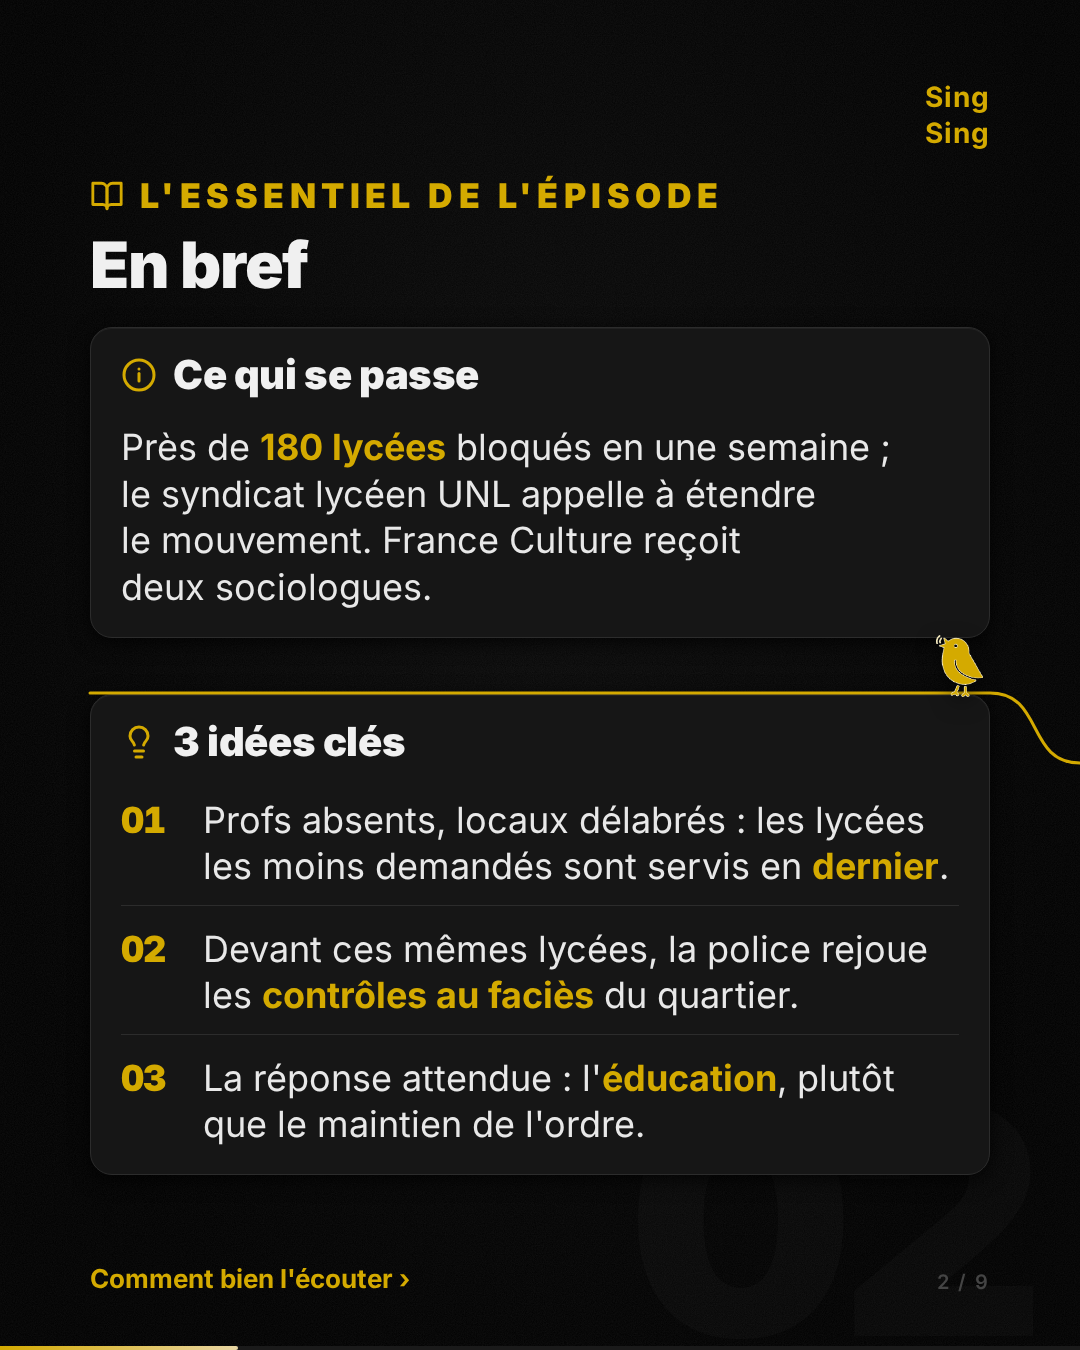
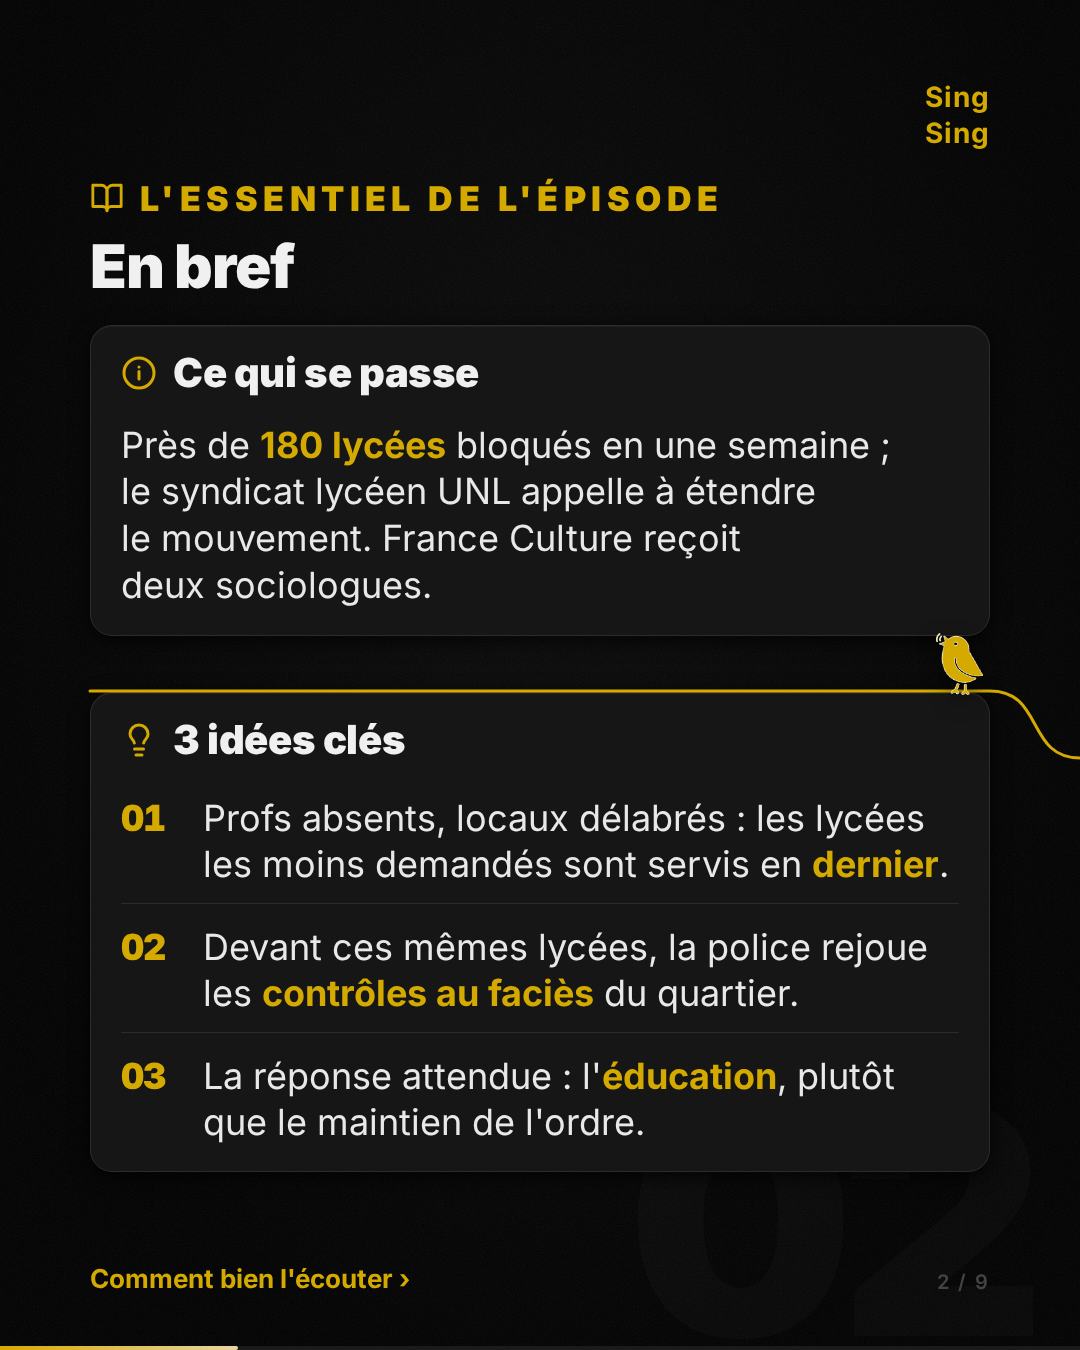
chore(samples): podcast_1 with uniform slide titles

diff --git a/samples/podcasts/podcast_1/instagram_carousel_optimized/html/02_essentiel.html b/samples/podcasts/podcast_1/instagram_carousel_optimized/html/02_essentiel.html
@@ -406,7 +406,7 @@ body {
    items, 0.32em label→body — resolved against this template's body size.
    03_reperes keeps the tighter values: it has no vertical slack left. */
 .sel-stage { flex: 1; display: flex; flex-direction: column; justify-content: center; gap: 33px; }
-.sel-head { font-size: 64px; font-weight: 900; line-height: 1.1; letter-spacing: -0.02em; color: #f0f0f0; text-wrap: balance; margin-top: 14px; }
+.sel-head { font-size: 60px; font-weight: 900; line-height: 1.1; letter-spacing: -0.02em; color: #f0f0f0; text-wrap: balance; margin-top: 14px; }
 /* The dispute, folded in from the old "Pourquoi cet article" slide: it sets up
    the three claims below it. */
 .lede { font-size: 36px; font-weight: 400; line-height: 1.3; color: #e8e8e8; text-wrap: pretty; text-align: left; hyphens: none; }
@@ -452,6 +452,6 @@ body {
   <div class="next-hook-bar"><span style="color: #d4aa00; font-weight: 700;">Comment bien l'écouter ›</span></div>
   <div class="slide-num">2 / 9</div>
   <div class="progress-track"><div class="progress-bar" style="width: 22%;"></div></div>
-<svg class="ss-wire" viewBox="0 0 1080 1350" style="position:absolute;inset:0;width:1080px;height:1350px;pointer-events:none;z-index:3"><path d="M90 693.0 L 990 693.0 C 1044.0 693.0, 1026.0 763.0, 1080 763.0" fill="none" stroke="#d4aa00" stroke-width="3" stroke-linecap="round"></path></svg></div>
+<svg class="ss-wire" viewBox="0 0 1080 1350" style="position:absolute;inset:0;width:1080px;height:1350px;pointer-events:none;z-index:3"><path d="M90 690.9 L 990 690.9 C 1044.0 690.9, 1026.0 758.0, 1080 758.0" fill="none" stroke="#d4aa00" stroke-width="3" stroke-linecap="round"></path></svg></div>
 
 </body></html>

diff --git a/samples/podcasts/podcast_1/instagram_carousel_optimized/html/03_reperes.html b/samples/podcasts/podcast_1/instagram_carousel_optimized/html/03_reperes.html
@@ -407,7 +407,7 @@ body {
    moments repeat that question word for word). Type is set large and the
    space shared out: this slide is read before listening, not studied. */
 .stage { flex: 1; display: flex; flex-direction: column; justify-content: center; padding: 110px 0 20px; }
-.head { font-size: 72px; font-weight: 900; line-height: 1.04; letter-spacing: -0.02em; color: #f0f0f0; text-wrap: balance; margin-top: 10px; }
+.head { font-size: 60px; font-weight: 900; line-height: 1.12; letter-spacing: -0.02em; color: #f0f0f0; text-wrap: balance; margin-top: 10px; }
 .ctx { font-size: 34px; line-height: 1.3; color: #e6e6e6; text-wrap: balance; }
 .ctx strong { color: #d4aa00; font-weight: 700; }
 /* labelled facts: what the reader needs to weigh the source, one line each */
@@ -461,6 +461,6 @@ body {
   <p class="link">Lien vers l'épisode en commentaires ↓</p>
   <div class="slide-num">3 / 9</div>
   <div class="progress-track"><div class="progress-bar" style="width: 33%;"></div></div>
-<svg class="ss-wire" viewBox="0 0 1080 1350" style="position:absolute;inset:0;width:1080px;height:1350px;pointer-events:none;z-index:3"><path d="M0 763.0 C 54.0 763.0, 36.0 830.9, 90 830.9 L 990 830.9 C 1044.0 830.9, 1026.0 908.6, 1080 908.6" fill="none" stroke="#d4aa00" stroke-width="3" stroke-linecap="round"></path></svg></div>
+<svg class="ss-wire" viewBox="0 0 1080 1350" style="position:absolute;inset:0;width:1080px;height:1350px;pointer-events:none;z-index:3"><path d="M0 758.0 C 54.0 758.0, 36.0 823.2, 90 823.2 L 990 823.2 C 1044.0 823.2, 1026.0 904.7, 1080 904.7" fill="none" stroke="#d4aa00" stroke-width="3" stroke-linecap="round"></path></svg></div>
 
 </body></html>

diff --git a/samples/podcasts/podcast_1/instagram_carousel_optimized/html/04_moment.html b/samples/podcasts/podcast_1/instagram_carousel_optimized/html/04_moment.html
@@ -467,6 +467,6 @@ body {
   </div>
   <div class="slide-num">4 / 9</div>
   <div class="progress-track"><div class="progress-bar" style="width: 44%;"></div></div>
-<svg class="ss-wire" viewBox="0 0 1080 1350" style="position:absolute;inset:0;width:1080px;height:1350px;pointer-events:none;z-index:3"><path d="M0 908.6 C 54.0 908.6, 36.0 984.2, 90 984.2 L 990 984.2 C 1044.0 984.2, 1026.0 958.3, 1080 958.3" fill="none" stroke="#d4aa00" stroke-width="3" stroke-linecap="round"></path></svg></div>
+<svg class="ss-wire" viewBox="0 0 1080 1350" style="position:absolute;inset:0;width:1080px;height:1350px;pointer-events:none;z-index:3"><path d="M0 904.7 C 54.0 904.7, 36.0 984.2, 90 984.2 L 990 984.2 C 1044.0 984.2, 1026.0 958.3, 1080 958.3" fill="none" stroke="#d4aa00" stroke-width="3" stroke-linecap="round"></path></svg></div>
 
 </body></html>
